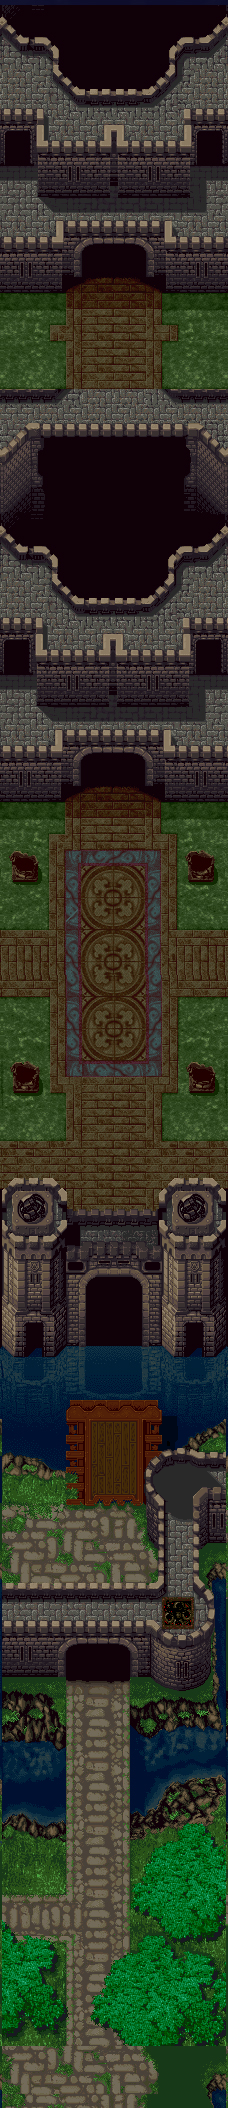
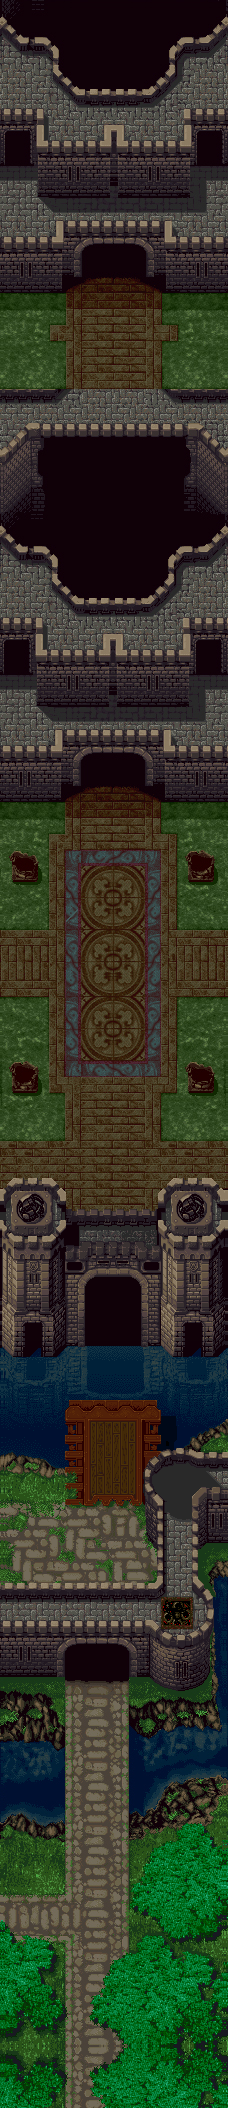
Added 2nd River & Corrected visual map error
Map COULD not be split into 2 textures because of:
Could not load surface with path: assests/maps/castle_bg_upper.png

Changed region(s): [[0.0, 0.4625, 1.0, 1.0], [0.9825, 0.4625, 1.0, 0.4934], [0.9211, 0.4934, 0.9518, 0.5242]]

diff --git a/GunBird - Coded Dreams/ModuleSceneCastle.cpp b/GunBird - Coded Dreams/ModuleSceneCastle.cpp
@@ -24,12 +24,31 @@ ModuleSceneCastle::ModuleSceneCastle()
 	rect_background.w = SCREEN_WIDTH;
 	rect_background.h = 2108;
 
+	//Upper background
+	rect_background_upper.w = SCREEN_WIDTH;
+	rect_background_upper.h = 930;
+
 	//First river
 	anim_1_river.PushBack({ 0, 0, 224, 120});
 	anim_1_river.PushBack({ 224, 0, 224, 120 });
 	anim_1_river.PushBack({ 0, 120, 224, 120 });
 	anim_1_river.PushBack({ 224, 120, 224, 120 });
 	anim_1_river.speed = 0.07f;
+
+	//Second river
+	anim_2_river.PushBack({ 0, 0, 224, 95 });
+	anim_2_river.PushBack({ 224, 0, 224, 95 });
+	anim_2_river.PushBack({ 448, 0, 224, 95 });
+	anim_2_river.PushBack({ 672, 0, 224, 95 });
+	anim_2_river.speed = 0.07f;
+
+	/*
+	anim_2_river.PushBack({ 0, 0, 224, 256 });
+	anim_2_river.PushBack({ 224, 0, 224, 256 });
+	anim_2_river.PushBack({ 448, 0, 224, 256 });
+	anim_2_river.PushBack({ 672, 0, 224, 256 });
+	anim_2_river.speed = 0.07f;
+	*/
 
 	//Bridge
 	anim_bridge.PushBack({ 0, 0, 121, 35});
@@ -54,16 +73,17 @@ bool ModuleSceneCastle::Start()
 	LOG("Loading background assets");
 	bool ret = true;
 	texture_bg = App->textures->Load("assets/maps/castle_background.png");
-	//First river
-	texture_1_river = App->textures->Load("assets/maps/castle_first_river.png");
-	//Bridge
-	texture_bridge = App->textures->Load("assets/maps/castle_bridge.png");
+	//texture_bg_upper = App->textures->Load("assests/maps/castle_bg_upper.png");
+	texture_1_river = App->textures->Load("assets/maps/castle_first_river.png"); //First river
+	texture_2_river = App->textures->Load("assets/maps/castle_second_river.png"); //First river
+	texture_bridge = App->textures->Load("assets/maps/castle_bridge.png"); //Bridge
 
 	App->enemies->AddEnemy(BUILDING1, 145, 1415);
 	App->enemies->AddEnemy(BUILDING2, 75, 1165);
 
 	App->enemies->AddEnemy(ANTIAIRCRAFT, 162, 1596);
 	App->enemies->AddEnemy(HUMANOIDE_ROBOT, 70, 1505);
+
 	//first wave torpedos:
 	App->enemies->AddEnemy(TORPEDO, -45, 1400);
 	App->enemies->AddEnemy(TORPEDO, -45, 1390);
@@ -103,11 +123,15 @@ bool ModuleSceneCastle::CleanUp()
 {
 	LOG("Unloading Castle scene");
 	App->textures->Unload(texture_bg);
+	//App->textures->Unload(texture_bg_upper);
 	App->textures->Unload(texture_1_river);
+	App->textures->Unload(texture_2_river);
 	App->textures->Unload(texture_bridge);
 
 	texture_bg = nullptr;
+	//texture_bg_upper = nullptr;
 	texture_1_river = nullptr;
+	texture_2_river = nullptr;
 	texture_bridge = nullptr;
 
 	App->audio->Stop();
@@ -127,15 +151,22 @@ update_status ModuleSceneCastle::Update()
 	//background
 	App->render->Blit(texture_bg, App->render->camera.x, App->render->camera.y, &rect_background, 0.75f);
 
-	//bridge	
-	Animation* current_bridge_animation = &anim_bridge;
-	SDL_Rect rect_bridge = current_bridge_animation->GetCurrentFrame();
-	App->render->Blit(texture_bridge, (App->render->camera.x + 65), (App->render->camera.y + 1346), &rect_bridge);
+	//App->render->Blit(texture_bg_upper, App->render->camera.x, App->render->camera.y, &rect_background_upper, 0.75f);
 
 	// First river
 	Animation* current_1_river_animation = &anim_1_river;
 	SDL_Rect rect_1_river = current_1_river_animation->GetCurrentFrame();
-	App->render->Blit(texture_1_river, (App->render->camera.x + 2), (App->render->camera.y + 1714), &rect_1_river, 0.75f);
+	App->render->Blit(texture_1_river, (App->render->camera.x + 1), (App->render->camera.y + 1714), &rect_1_river, 0.75f);
+
+	// Second river
+	Animation* current_2_river_animation = &anim_2_river;
+	SDL_Rect rect_2_river = current_2_river_animation->GetCurrentFrame();
+	App->render->Blit(texture_2_river, (App->render->camera.x + 1), (App->render->camera.y + 1341), &rect_2_river, 0.75f);
+
+	//bridge	
+	Animation* current_bridge_animation = &anim_bridge;
+	SDL_Rect rect_bridge = current_bridge_animation->GetCurrentFrame();
+	App->render->Blit(texture_bridge, (App->render->camera.x + 65), (App->render->camera.y + 1346), &rect_bridge);
 
 	//Fade To Black ---------------------------------------------
 	if (App->input->keyboard[SDL_SCANCODE_SPACE] && fading == false && App->fade->GetFadeState() == false)

diff --git a/GunBird - Coded Dreams/ModuleSceneCastle.h b/GunBird - Coded Dreams/ModuleSceneCastle.h
@@ -26,10 +26,20 @@ public:
 	SDL_Texture* texture_bg = nullptr;
 	SDL_Rect rect_background;
 
+	/*//upper background
+	SDL_Texture* texture_bg_upper = nullptr;
+	SDL_Rect rect_background_upper;
+	*/
+
 	//First river
 	SDL_Texture* texture_1_river = nullptr;
 	Animation anim_1_river;
 	SDL_Rect rect_1_river;
+
+	//Second river
+	SDL_Texture* texture_2_river = nullptr;
+	Animation anim_2_river;
+	SDL_Rect rect_2_river;
 
 	//Bridge
 	SDL_Texture* texture_bridge = nullptr;
